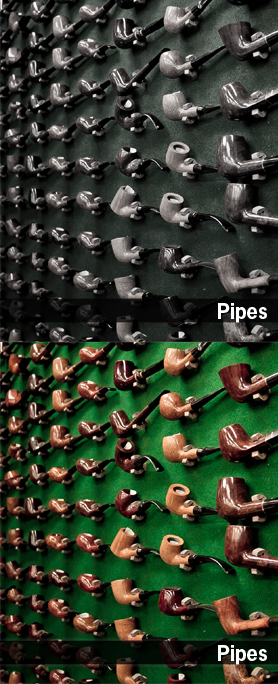
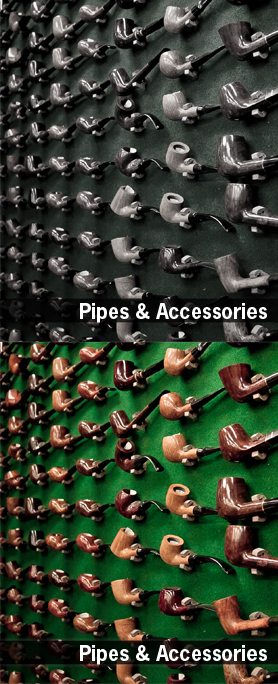
changed to 'Pipes & Accessories'

diff --git a/products-pipes.html b/products-pipes.html
@@ -32,12 +32,12 @@
             <div class="box-images">
               <div class="box-header">Winnipeg's Greatest Selection of Pipes</div>
               <div class="box-content">
-                <img src="images/pipes.jpg" alt="Thomas Hinds' Pipes" class="image-shadow"/>
+                <img src="images/pipes.jpg" alt="Hinds Brothers' Pipes" class="image-shadow"/>
               </div>
               <div class="box-footer"></div>
             </div>
             <div class="title-ribbon">
-              <p class="title-ribbon-start"></p><h1 class="title-ribbon-middle">Products - Pipes</h1><p class="title-ribbon-end"></p>
+              <p class="title-ribbon-start"></p><h1 class="title-ribbon-middle">Products - Pipes & Accessories</h1><p class="title-ribbon-end"></p>
             </div>
             <p>We currently stock the following brands of pipes:</p>
             <ul>                    

diff --git a/products.html b/products.html
@@ -34,8 +34,8 @@
             </div>
             <div class="products-listing">
               <a href ="products-cigars.html" class="cigars image-shadow">Cigars</a>
-              <a href ="products-pipes.html" class="pipes image-shadow">Pipes</a>
               <a href ="products-tobacco.html" class="tobacco image-shadow">Tobacco</a>
+              <a href ="products-pipes.html" class="pipes image-shadow">Pipes</a>
             </div>
           </div>
         </div>

diff --git a/products-tobacco.html b/products-tobacco.html
@@ -32,7 +32,7 @@
             <div class="box-images">
               <div class="box-header">Winnipeg's Foremost Selection of Tobacco</div>
               <div class="box-content">
-                <img src="images/tobacco.jpg" alt="Thomas Hinds' Tobacco" class="image-shadow"/>
+                <img src="images/tobacco.jpg" alt="Hinds Brothers' Tobacco" class="image-shadow"/>
               </div>
               <div class="box-footer"></div>
             </div>
